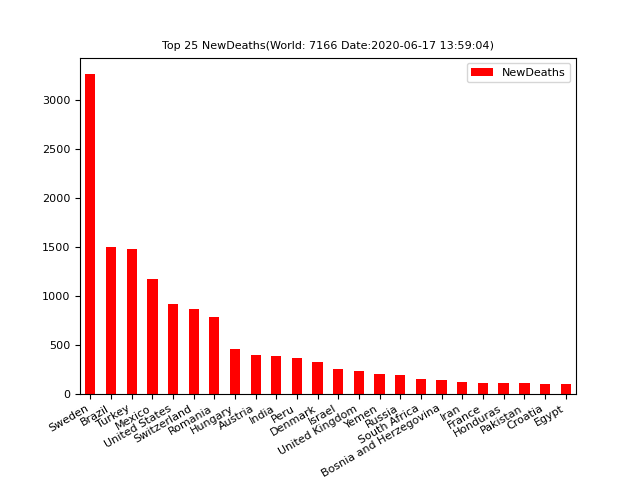
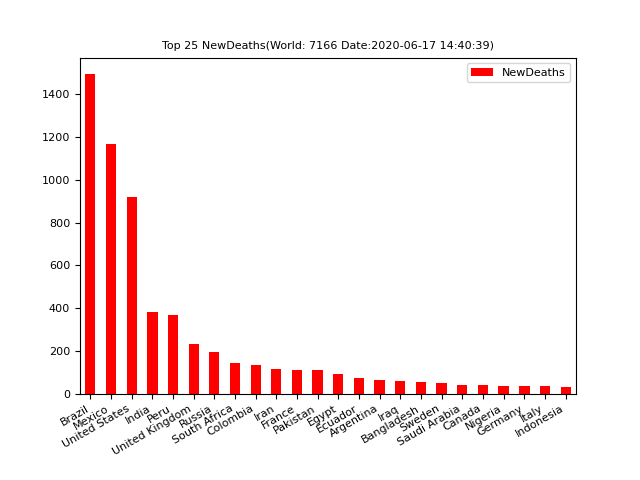
new

diff --git a/coronavirus/plotCoronavirous.py b/coronavirus/plotCoronavirous.py
@@ -9,6 +9,7 @@ import pandas as pd
 import matplotlib.pyplot as plt
 
 gSaveBasePath=r'.\images\\'
+gSaveChangeData=r'.\dataChange\\'
 
 def plotData(df,number = 25):    
     if number>df.shape[0]:
@@ -480,6 +481,29 @@ def getAlldateRecord(csvpath, date='2020-06-16'):
             return df
     return None
 
+def getNewCasesDf(pdDate,pdDateBefore):
+    locations = pdDate['Location']
+    pdNewCases = pd.DataFrame()
+    for i in locations:
+        dataD = pdDate[pdDate['Location'] == i]
+        dataB = pdDateBefore[pdDateBefore['Location'] == i]
+        #print('dataD=',dataD)
+        #print('dataB=',dataB)
+        location = i
+        newCases = dataD['Confirmed'].values[0] - dataB['Confirmed'].values[0]
+        newDeaths = dataD['Deaths'].values[0] - dataB['Deaths'].values[0] 
+        #print('\nline=',location,newCases,newDeaths)
+        #print(dataD.iloc[:,[1]])
+        #print(dataD['Confirmed'].values[0])
+        
+        data = {'Location': location, 'NewCases': newCases, 'NewDeaths': newDeaths}
+        #line = pd.DataFrame(data=[location,newCases,newDeaths], columns=['Location','NewCases','NewDeaths'])
+        line = pd.DataFrame(data=data,index=[0])
+        pdNewCases = pdNewCases.append(line)
+    
+    #print(pdNewCases.head())    
+    return pdNewCases
+
 def plotNewCasesByCountry(csvpath):
     daytime = datetime.datetime.now()
     today = datetime.date.today()
@@ -500,20 +524,25 @@ def plotNewCasesByCountry(csvpath):
         print('Read date record error:',dateBefore)
         return
     
-    # print(pdDate.head())
-    # print(pdDateBefore.head())
+    print(pdDate.head())
+    print(pdDateBefore.head())
     # print(pdDate.index)
     # print(pdDateBefore.index)
     # print(pdDate.index == pdDateBefore.index )
 
-    newCases = pdDate['Confirmed']-pdDateBefore['Confirmed']
-    #print(newCases)
-    newDeaths = pdDate['Deaths']-pdDateBefore['Deaths']
-    #print(newDeaths)
+    if 0:
+        newCases = pdDate['Confirmed']-pdDateBefore['Confirmed']
+        #print(newCases)
+        newDeaths = pdDate['Deaths']-pdDateBefore['Deaths']
+        #print(newDeaths)
+        
+        data = {'Location':pdDate['Location'], 'NewCases': newCases,'NewDeaths':newDeaths}
+        pdNewCases = pd.DataFrame(data=data)
+        print(pdNewCases.head())
+    else:
+        pdNewCases = getNewCasesDf(pdDate,pdDateBefore)
     
-    data = {'Location':pdDate['Location'], 'NewCases': newCases,'NewDeaths':newDeaths}
-    pdNewCases = pd.DataFrame(data=data)
-    print(pdNewCases.head())
+    pdNewCases.to_csv(gSaveChangeData+'NewCasesAndDeaths_'+date+'.csv',index=False)
     plotNewCasesByCountryData(pdNewCases)
     
 def plotNewCasesByCountryData(df,number = 25):    
@@ -542,7 +571,7 @@ def plotNewCasesByCountryData(df,number = 25):
     ncWorld = topStr + 'NewCases(World: ' + str(int(worldDf['NewCases'][0])) + today + ')'
     ndWorld = topStr + 'NewDeaths(World: ' + str(int(worldDf['NewDeaths'][0]))+ today + ')'
     
-    dfs = [('NewCases', ncWorld, df1),('NewDeaths', ndWorld, df2)]  #(name title df)
+    dfs = [('nc', ncWorld, df1),('nd', ndWorld, df2)]  #(name title df)
     #print(ncWorld,ndWorld)
     
     fontsize = 8

diff --git a/README.md b/README.md
@@ -30,8 +30,8 @@ https://www.health.govt.nz/our-work/diseases-and-conditions/covid-19-novel-coron
 #### main_v1.3.py
 Updated to adapt to the new google page.<br/>
 <br/>
-<img src="images/nc1x.png" width="320" height="240">
-<img src="images/nd2x.png" width="320" height="240">
+<img src="images/nc1.png" width="320" height="240">
+<img src="images/nd2.png" width="320" height="240">
 <img src="images/1.png" width="320" height="240">
 <img src="images/2.png" width="320" height="240">
 <img src="images/3.png" width="320" height="240">
